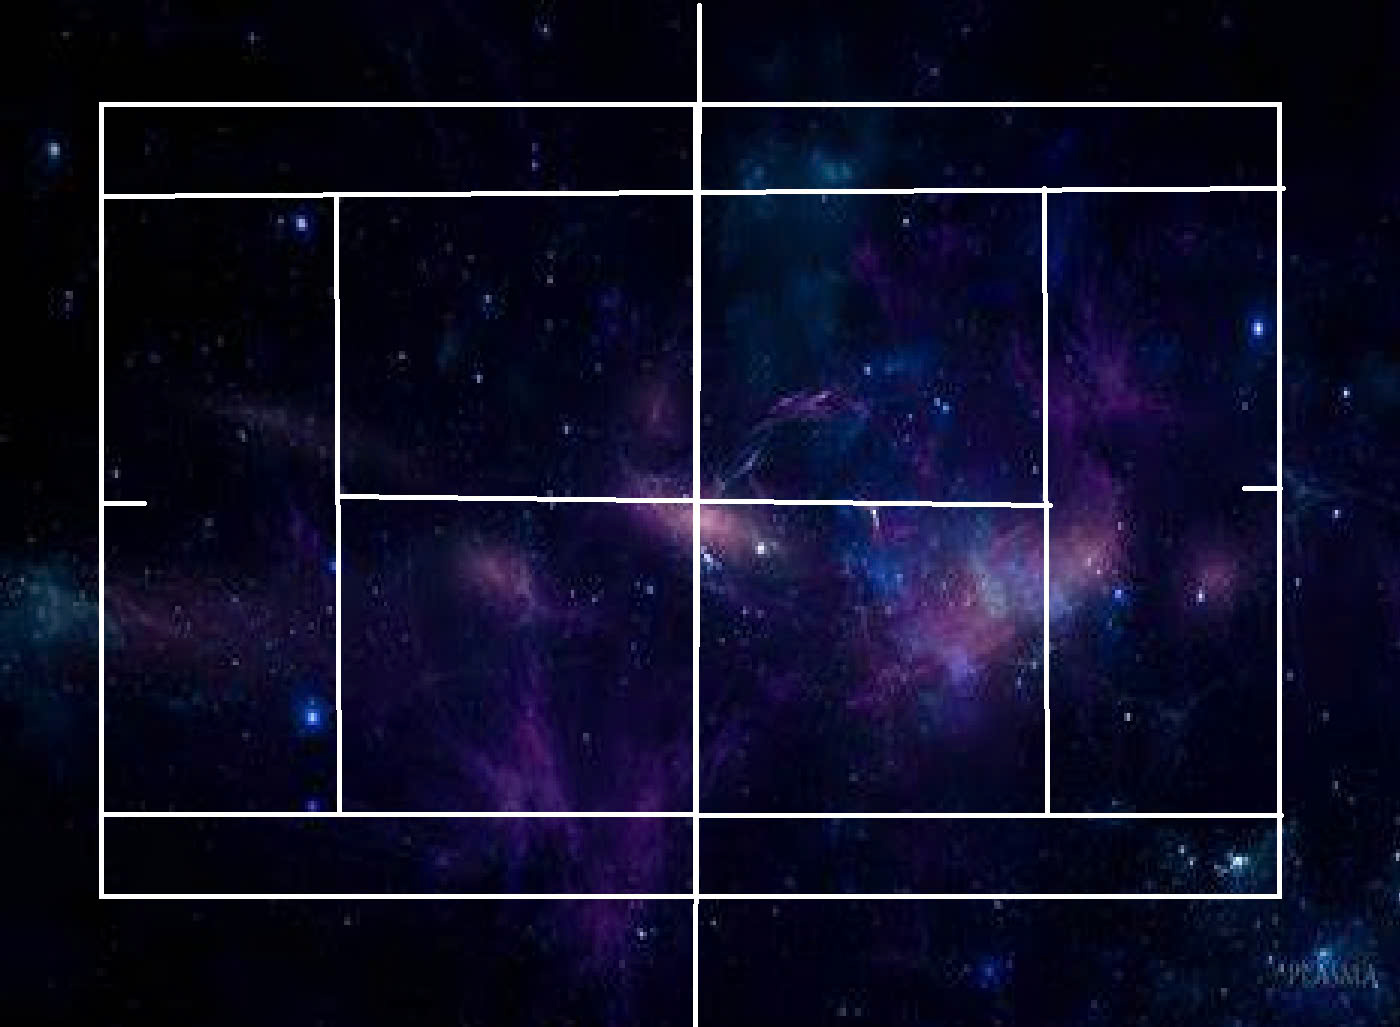
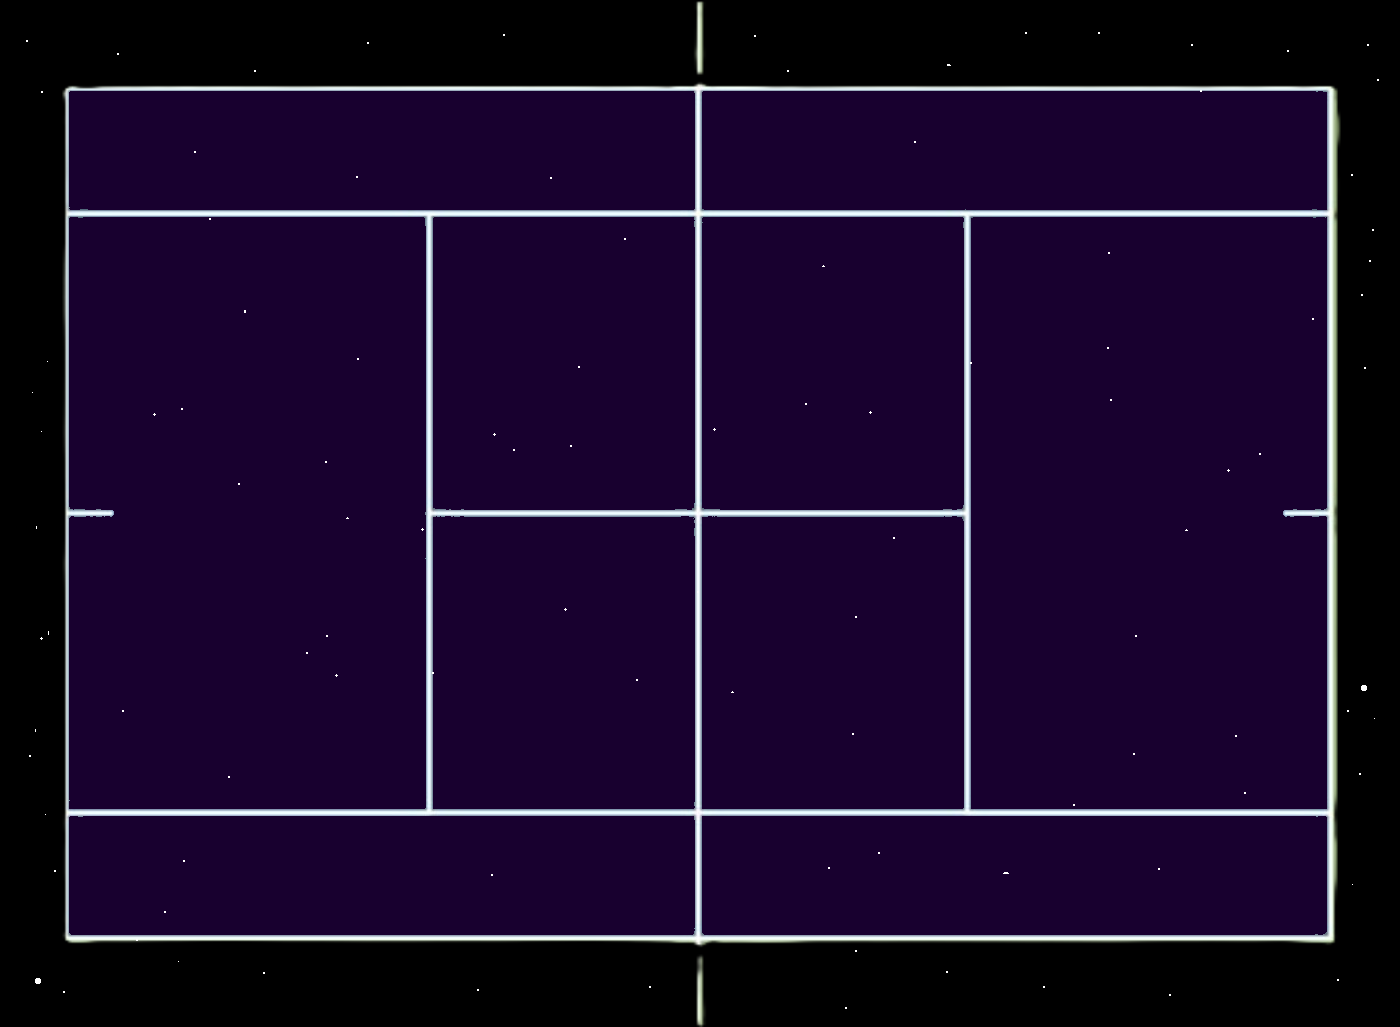
upadte map

diff --git a/Ball.py b/Ball.py
@@ -39,14 +39,9 @@ class Ball:
     def Updateposition(self, HEIGHT, ball_Atribute, paddle_a, paddle_b, drawing):
         atribute_speed = threading.Thread(target=self.run_check_Hit_Atribute_speed, args=(ball_Atribute,)) 
         atribute_paddle_speed = threading.Thread(target=self.run_check_Hit_Atribute_paddle_speed, args=(ball_Atribute, paddle_a, paddle_b,))
-        atribute_map1 = threading.Thread(target=self.run_check_Hit_Atribute_map1, args=(ball_Atribute, drawing, ))
-        atribute_map2 = threading.Thread(target=self.run_check_Hit_Atribute_map2, args=(ball_Atribute, drawing, ))
-        atribute_map3 = threading.Thread(target=self.run_check_Hit_Atribute_map3, args=(ball_Atribute, drawing, ))
         atribute_speed.start()
         atribute_paddle_speed.start()
-        atribute_map1.start()
-        atribute_map2.start()
-        atribute_map3.start()
+        
         if self.ball_position[1] <= 0 +15 or self.ball_position[1] >= HEIGHT - 15:
             self.ball_velocity[1] *= -1
             bounce.play() 
@@ -103,29 +98,6 @@ class Ball:
                 time.sleep(5)
                 paddle_b.speed -= 10
 
-    def check_Hit_Atribute_map1(self,ball_Atribute):
-        if self.ball.colliderect(ball_Atribute.ball) and ball_Atribute.color == "green":
-            return True
-    def run_check_Hit_Atribute_map1(self,ball_Atribute, drawing):
-        if self.check_Hit_Atribute_map1(ball_Atribute) and ball_Atribute.hit == False:
-            ball_Atribute.hit = True
-            drawing.change_background('images/field.png')
-
-    def check_Hit_Atribute_map2(self,ball_Atribute):
-        if self.ball.colliderect(ball_Atribute.ball) and ball_Atribute.color == "yellow":
-            return True
-    def run_check_Hit_Atribute_map2(self,ball_Atribute, drawing):
-        if self.check_Hit_Atribute_map2(ball_Atribute) and ball_Atribute.hit == False:
-            ball_Atribute.hit = True
-            drawing.change_background('images/sand_field.png')
-
-    def check_Hit_Atribute_map3(self,ball_Atribute):
-        if self.ball.colliderect(ball_Atribute.ball) and ball_Atribute.color == "black":
-            return True
-    def run_check_Hit_Atribute_map3(self,ball_Atribute, drawing):
-        if self.check_Hit_Atribute_map3(ball_Atribute) and ball_Atribute.hit == False:
-            ball_Atribute.hit = True
-            drawing.change_background('images/space_field.png')
                 
 
     

diff --git a/Main.py b/Main.py
@@ -19,6 +19,12 @@ combo_counterb = 0
 game_state = "game_menu"
 mode = "single"
 mode_changed = False
+mode_changed_1 = False
+mode_changed_2 = False
+mode_map = "map1"
+
+
+
 
 def draw_objects(window, background):
         
@@ -50,19 +56,50 @@ if __name__ == '__main__' :
                 exit()  # Thêm lệnh này để thoát chương trình hoàn toàn
         
         if game_state == "game_menu":
-            Draw.draw_game_menu(mode,screen)
+            Draw.draw_game_menu(mode,mode_map ,screen)
             keys = pg.key.get_pressed()
             if keys[pg.K_SPACE]:
                 game_state = "playing"
-            elif keys[pg.K_r]:
+
+            if keys[pg.K_r]:
                 if not mode_changed:
                     mode_changed = True
                     if mode == "single":
                         mode = "player"
                     elif mode == "player":
                         mode = "single"
+                    
             else:
                 mode_changed = False 
+
+            if keys[pg.K_a]:
+                if not mode_changed_1:
+                    mode_changed_1 = True
+                    if mode_map == "map2":
+                        Draw.change_background('images/field.png')
+                        mode_map = "map1"
+                    elif mode_map == "map3":
+                        Draw.change_background('images/sand_field.png')
+                        mode_map = "map2"
+                    elif mode_map == "map1":
+                        Draw.change_background('images/space_field.png')
+                        mode_map = "map3"
+            else:
+                mode_changed_1 = False
+            if keys[pg.K_d]:
+                if not mode_changed_2:
+                    mode_changed_2 = True
+                    if mode_map == "map2":
+                        Draw.change_background('images/space_field.png')
+                        mode_map = "map3"
+                    elif mode_map == "map1":
+                        Draw.change_background('images/sand_field.png')
+                        mode_map = "map2"
+                    elif mode_map == "map3":
+                        Draw.change_background('images/field.png')
+                        mode_map = "map1"
+            else:
+                mode_changed_2 = False 
         
         elif game_state == "playing":    
             paddle_a.Move1()

diff --git a/GUI.py b/GUI.py
@@ -30,20 +30,37 @@ class Draw():
         self.paddle_b = Paddle.Paddle(WIDTH-20,0,10,100)
         
 
-    def draw_game_menu(self,mode,window):
+    def draw_game_menu(self,mode,mode_map,window):
         table_surface = pg.Surface((WIDTH * 0.5, HEIGHT * 0.3)) 
         table_surface.fill((0, 0, 0)) 
         pg.draw.rect(table_surface, (255, 255, 255), table_surface.get_rect(), 10)  
-        mode_clolor = "green" if mode == "single" else "red"
+        mode_game_clolor = "green" if mode == "single" else "red"
         text = self.font.render("Welcome to Pong!", True, "white")
         start = self.font.render("Press Space to start", True, "white")
         mode_game = self.font.render("Press R to switch mode : ", True, "white")
-        mode_changed = self.font.render(f"{mode}", True, mode_clolor)
+        mode_game_left_txt = self.font.render(f"<<", True, "white")
+        mode_game_changed = self.font.render(f"{mode}", True, mode_game_clolor)
+        mode_game_right_txt = self.font.render(f">>", True, "white")
+        mode_map_text = self.font.render("Press [A,D] to change map : ", True, "white")
+        if mode_map == "map1":
+            mode_map_color = "white"
+        elif mode_map == "map2":
+            mode_map_color = "yellow"
+        else:
+            mode_map_color = "blue"
+        mode_map_left_txt = self.font.render(f"<<", True, "white")
+        mode_map_changed = self.font.render(f"{mode_map}", True, mode_map_color)
+        mode_map_right_txt = self.font.render(f">>", True, "white")
         table_surface.blit(text, (WIDTH * 0.16, 20))
         table_surface.blit(start, (WIDTH * 0.155, 60))
         table_surface.blit(mode_game, (WIDTH * 0.11, 100))
-        table_surface.blit(mode_changed, (WIDTH * 0.33, 100))
-
+        table_surface.blit(mode_game_left_txt, (WIDTH * 0.35, 100))
+        table_surface.blit(mode_game_changed, (WIDTH * 0.38, 100))
+        table_surface.blit(mode_game_right_txt, (WIDTH * 0.44, 100))
+        table_surface.blit(mode_map_text, (WIDTH * 0.11, 140))
+        table_surface.blit(mode_map_left_txt, (WIDTH * 0.35, 140))
+        table_surface.blit(mode_map_changed, (WIDTH * 0.38, 140))
+        table_surface.blit(mode_map_right_txt, (WIDTH * 0.44, 140))
         window.blit(self.background, (0, 0))
         window.blit(table_surface, (WIDTH//2 - table_surface.get_width()//2, HEIGHT//3))
     

diff --git a/Atribute_ball.py b/Atribute_ball.py
@@ -6,16 +6,14 @@ import GUI
 class Atribute_ball():
     speed = 'red'
     paddle_speed = 'blue'
-    map1 = 'green'
-    map2 = 'yellow'
-    map3 = 'black'
+    
     
     def __init__(self, ball_x, ball_y, window):
         self.ball_x = ball_x
         self.ball_y = ball_y
         self.ball_position = np.array([ball_x,ball_y],dtype= np.float64)
         self.Gravity = 0.05
-        self.Atribute_list = [self.speed,self.paddle_speed,self.map1,self.map2,self.map3]
+        self.Atribute_list = [self.speed,self.paddle_speed]
         self.color = random.choice(self.Atribute_list)
         self.element = random.choice(self.Atribute_list)
         self.atribute = str(self.element)
